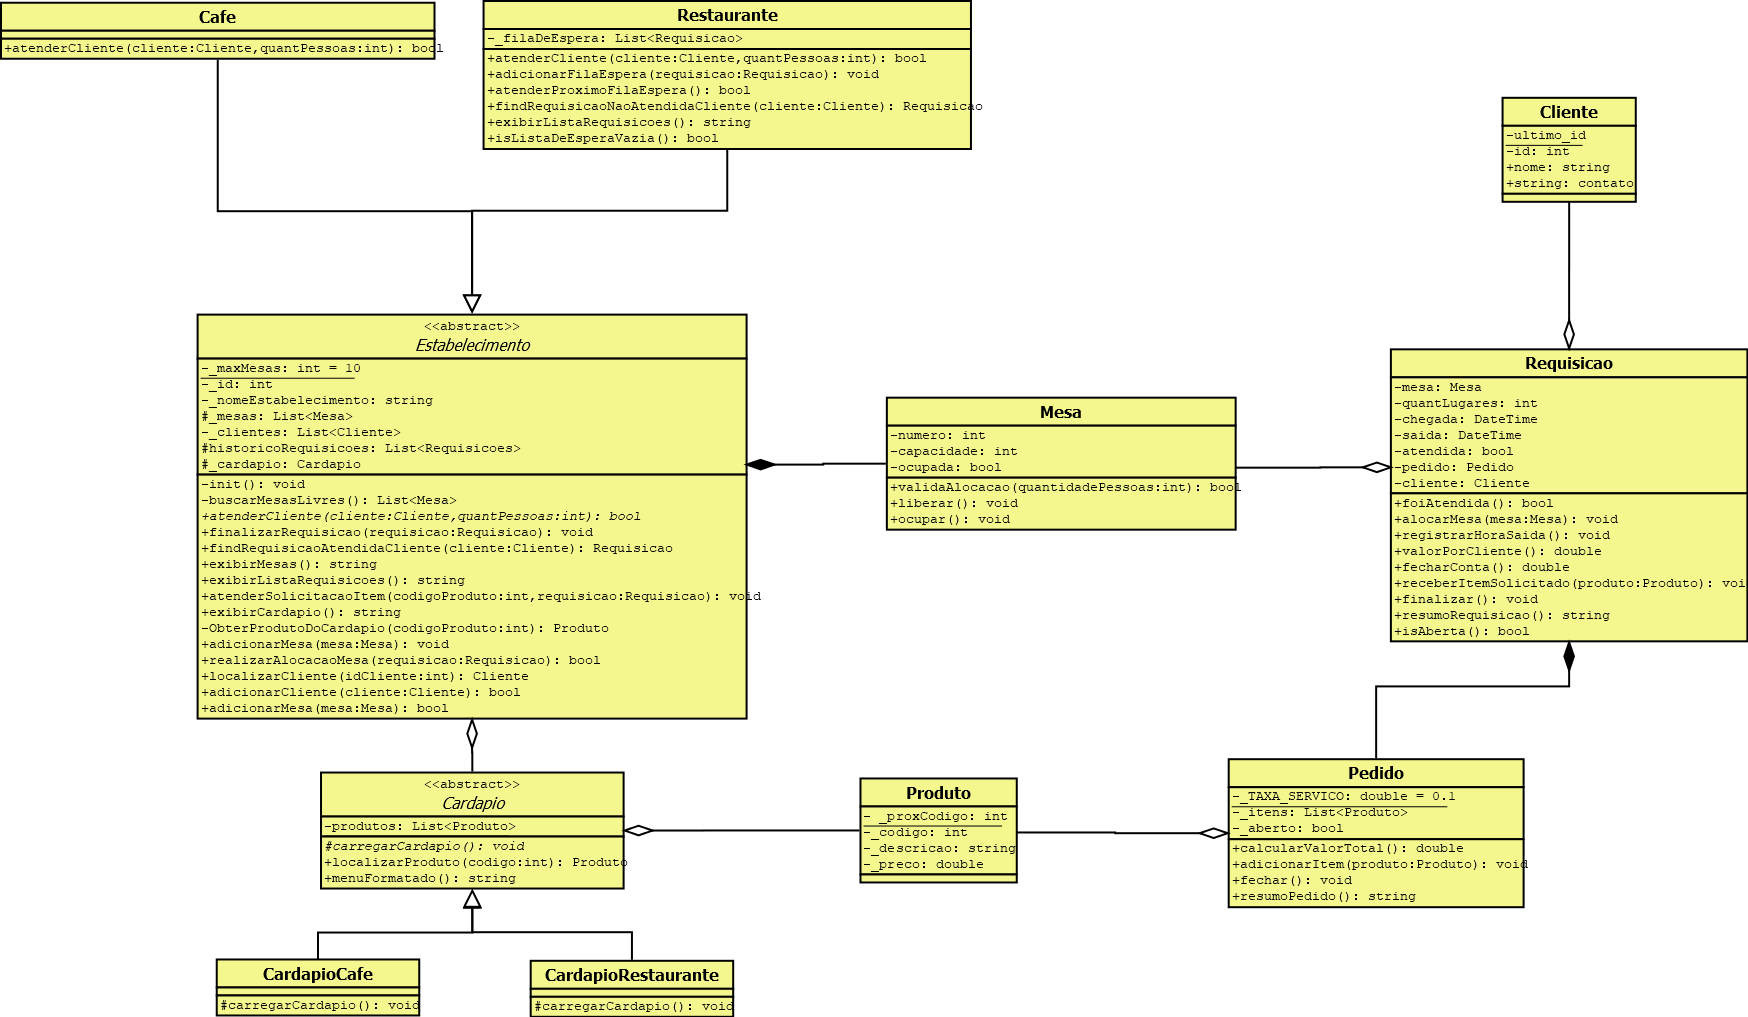
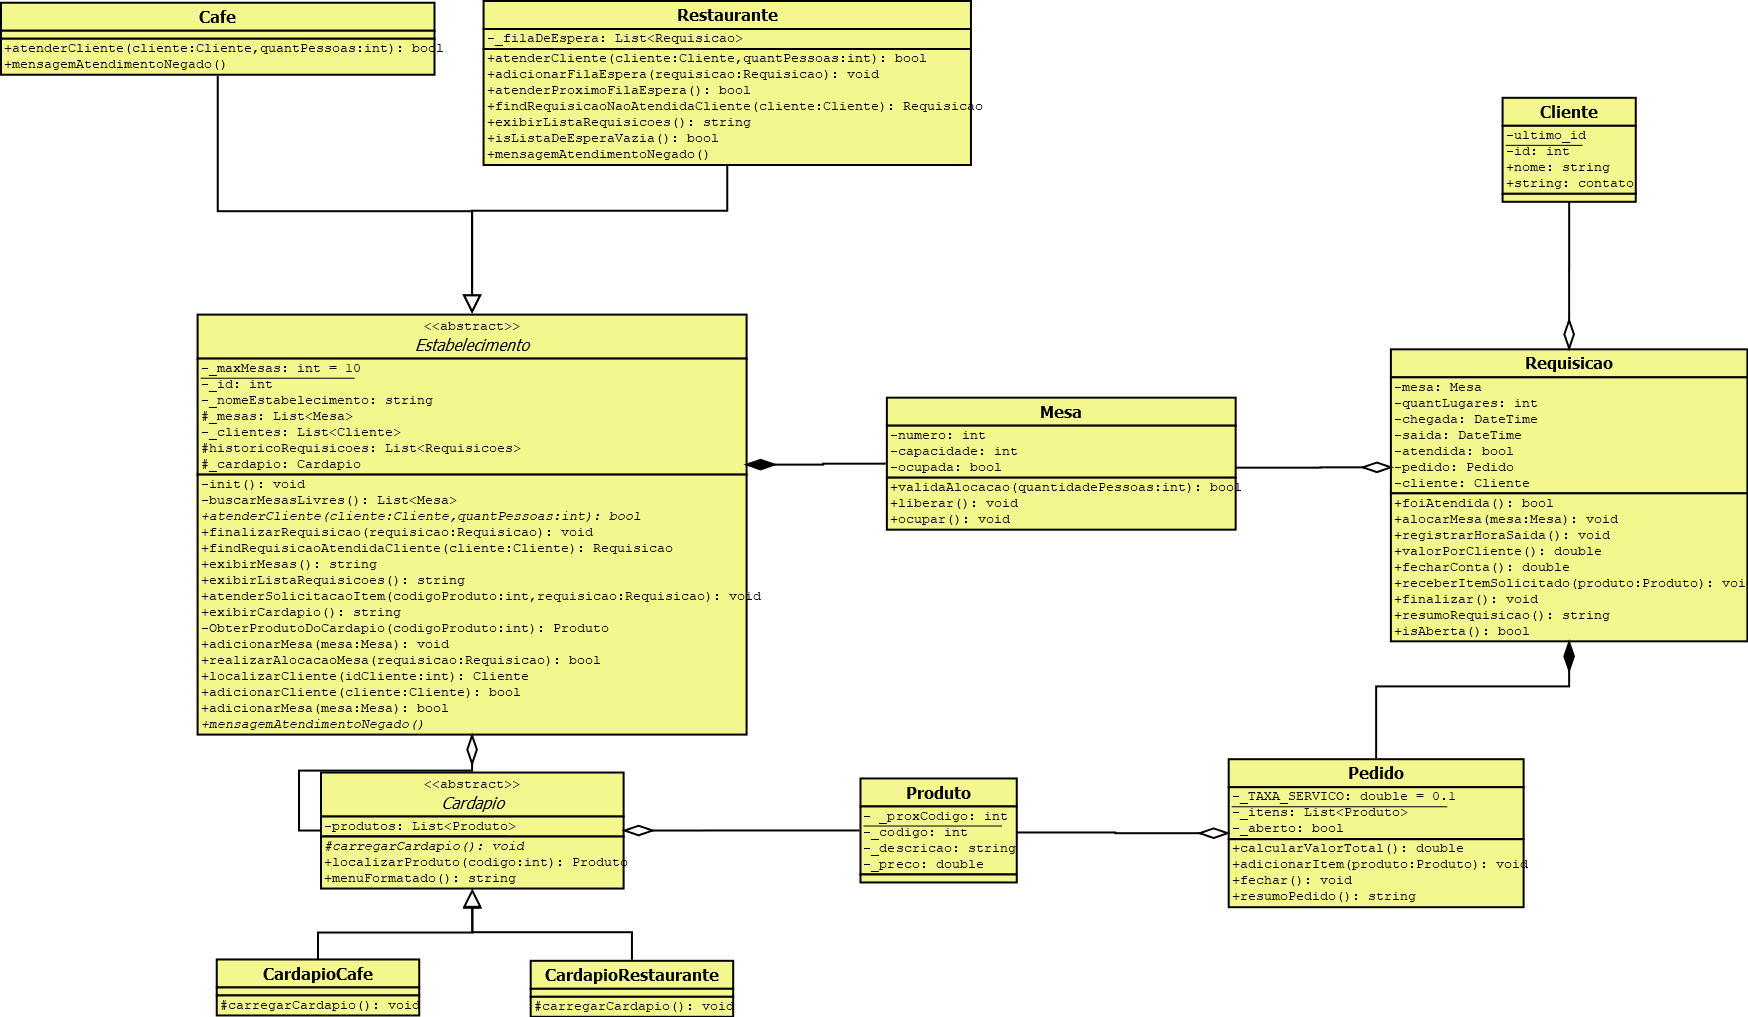
feat: improving messages

Changed region(s): [[0.278, 0.1219, 0.5561, 0.1829], [0.0, 0.0305, 0.2471, 0.0914], [0.0927, 0.7011, 0.4325, 0.762]]

diff --git a/codigo/RestauranteAtomo/Program.cs b/codigo/RestauranteAtomo/Program.cs
@@ -56,6 +56,7 @@ namespace RestauranteAtomo
                             break;
                     }
                 }catch(FormatException){
+                    Console.Clear();
                     Console.WriteLine("Opção inválida!");
                     codigo = -1;
                 }
@@ -66,12 +67,12 @@ namespace RestauranteAtomo
         /// Método com dados de teste
         /// </summary>
         private static void mockDados(){
-            for (int i = 1; i <= 10; i++) {
+            for (int i = 1; i <= 6; i++) {
                 Cliente cliente = new Cliente("Cliente" + i, "8888"+i);
                 estabelecimento.adicionarCliente(cliente);
                 if(i <= 4){
                     estabelecimento.atenderCliente(cliente, 4);
-                }else if(i > 4 && i <= 8){
+                }else if(i > 4 && i <= 5){
                     estabelecimento.atenderCliente(cliente, 6);
                 }else{
                     estabelecimento.atenderCliente(cliente, 8);
@@ -105,21 +106,22 @@ namespace RestauranteAtomo
         /// </summary>
         public static string menu()
         {
+            int index = 0;
             StringBuilder sb = new StringBuilder();
             sb.AppendLine(estabelecimento.ToString());
             sb.AppendLine("\nMenu");
-            sb.AppendLine("1) Novo cliente");
-            sb.AppendLine("2) Atender cliente");
-            sb.AppendLine("3) Adicionar mesa ao Restaurante");
-            sb.AppendLine("4) Atender Solicitação de item do cardápio");
-            sb.AppendLine("5) Fechar conta");
+            sb.AppendLine(++index+") Novo cliente");
+            sb.AppendLine(++index+") Atender cliente");
+            sb.AppendLine(++index+") Adicionar mesa ao Restaurante");
+            sb.AppendLine(++index + ") Atender Solicitação de item do cardápio");
+            sb.AppendLine(++index + ") Fechar conta");
             
             if(estabelecimento.GetHashCode() == RESTAURANTE){
-                sb.AppendLine("6) Atender próximo da fila de espera");
+                sb.AppendLine(++index + ") Atender próximo da fila de espera");
             }
 
-            sb.AppendLine("7) Exibir Lista de Requisições");
-            sb.AppendLine("8) Exibir Lista de Mesas");
+            sb.AppendLine(++index + ") Exibir Lista de Requisições");
+            sb.AppendLine(++index + ") Exibir Lista de Mesas");
             sb.AppendLine("0) Sair do programa");
             return sb.ToString();
         }
@@ -155,7 +157,7 @@ namespace RestauranteAtomo
         /// para a criacao e atendimento da requisicao.
         /// </summary>
         /// <param name="cliente">O cliente cuja requisicao sera criada e atendida</param>
-        public static void iniciarAtendimento(Cliente cliente, string mensagemAtendimentoNegado)
+        public static void iniciarAtendimento(Cliente cliente)
         {
             Console.WriteLine("Reserva para quantas pessoas ?");
             int quantidadePessoas;
@@ -180,7 +182,7 @@ namespace RestauranteAtomo
                     Console.WriteLine(requisicao.ToString());
                 }
             }else{
-                Console.WriteLine(mensagemAtendimentoNegado);
+                Console.WriteLine(estabelecimento.mensagemAtendimentoNegado());
             }
         }
 
@@ -320,7 +322,7 @@ namespace RestauranteAtomo
                 Console.WriteLine(requisicao.resumoPedido());
                 requisicao.fecharConta();
             }else{
-                 Console.WriteLine("O cliente não possui requisições passíveis de finalização");
+                 Console.WriteLine("O cliente não possui requisições passíveis de finalização!");
             }
         }
         
@@ -345,7 +347,6 @@ namespace RestauranteAtomo
         }
 
         public static void executarOperacoesRestaurante(){
-            Restaurante restaurante = (Restaurante) estabelecimento;
             int opcao;
             do
             {
@@ -367,13 +368,16 @@ namespace RestauranteAtomo
                         break;
                     case 2:
                         Cliente c = iniciarBuscaCliente();
-                        if (c != null && restaurante.findRequisicaoAtendidaCliente(c) == null && restaurante.findRequisicaoNaoAtendidaCliente(c) == null)
-                            iniciarAtendimento(c, "Requsição não atendida. O cliente entrou na fila de espera!");
+                        if (c != null)
+                        {
+                            if (estabelecimento.findRequisicaoAtendidaCliente(c) == null && ((Restaurante) estabelecimento).findRequisicaoNaoAtendidaCliente(c) == null)
+                                iniciarAtendimento(c);
+                            else
+                                Console.WriteLine("Cliente possui requisição pendente ! Para cadastrar nova requisição, a requisição existente deve ser finalizada primeiro! ");
+                        }
                         else
                         {
-                            string mensagem = "Cliente não encontrado ou cliente possui requisição pendente.\n";
-                            mensagem += "Para cadastrar nova requisição, a requisição existente deve ser finalizada primeiro!";
-                            Console.WriteLine(mensagem);
+                            Console.WriteLine("Cliente não encontrado");
                         }
                         espera();
                         break;
@@ -387,7 +391,7 @@ namespace RestauranteAtomo
                         {
                             atenderSolicitacaoItem(c2);
                         }
-                        else Console.WriteLine("Cliente não encontrado ou o cliente não possui requisição ativa. Favor tentar novamente! \n");
+                        else Console.WriteLine("Cliente não encontrado! \n");
                         espera();
                         break;
                     case 5:
@@ -396,7 +400,7 @@ namespace RestauranteAtomo
                         {
                             exibirConta(c3);
                         }
-                        else Console.WriteLine("Cliente não encontrado ou o cliente não possui requisição ativa. Favor tentar novamente! \n");
+                        else Console.WriteLine("Cliente não encontrado! \n");
                         espera();
                         break;
                     case 6:
@@ -446,13 +450,16 @@ namespace RestauranteAtomo
                         break;
                     case 2:
                         Cliente c = iniciarBuscaCliente();
-                        if (c != null && cafe.findRequisicaoAtendidaCliente(c) == null)
-                            iniciarAtendimento(c, "O estabelecimento está lotado. Peça para o cliente voltar em outro momento!");
+                        if (c != null)
+                        {
+                            if (estabelecimento.findRequisicaoAtendidaCliente(c) == null)
+                                iniciarAtendimento(c);
+                            else
+                                Console.WriteLine("Cliente possui requisição pendente ! Para cadastrar nova requisição, a requisição existente deve ser finalizada primeiro! ");
+                        }
                         else
                         {
-                            string mensagem = "Cliente não encontrado ou cliente possui requisição pendente.\n";
-                            mensagem += "Para cadastrar nova requisição, a requisição existente deve ser finalizada primeiro!";
-                            Console.WriteLine(mensagem);
+                            Console.WriteLine("Cliente não encontrado");
                         }
                         espera();
                         break;
@@ -466,7 +473,7 @@ namespace RestauranteAtomo
                         {
                             atenderSolicitacaoItem(c2);
                         }
-                        else Console.WriteLine("Cliente não encontrado ou o cliente não possui requisição ativa. Favor tentar novamente! \n");
+                        else Console.WriteLine("Cliente não encontrado!\n");
                         espera();
                         break;
                     case 5:
@@ -475,14 +482,14 @@ namespace RestauranteAtomo
                         {
                             exibirConta(c3);
                         }
-                        else Console.WriteLine("Cliente não encontrado ou o cliente não possui requisição ativa. Favor tentar novamente! \n");
+                        else Console.WriteLine("Cliente não encontrado!\n");
                         espera();
                         break;
-                    case 7:
+                    case 6:
                         Console.WriteLine(estabelecimento.exibirListaRequisicoes());
                         espera();
                         break;
-                    case 8:
+                    case 7:
                         Console.WriteLine(estabelecimento.exibirMesas());
                         espera();
                         break;

diff --git a/codigo/RestauranteAtomo/model/Restaurante.cs b/codigo/RestauranteAtomo/model/Restaurante.cs
@@ -30,9 +30,8 @@ namespace RestauranteAtomo.model
                 new Mesa(5, 6, false),
                 new Mesa(6, 6, false),
                 new Mesa(7, 6, false),
-                new Mesa(8, 6, false),
-                new Mesa(9, 8, false),
-                new Mesa(10, 8, false)
+                new Mesa(8, 8, false),
+                new Mesa(9, 8, false)
             };
         }
 
@@ -143,6 +142,10 @@ namespace RestauranteAtomo.model
             return resposta;
         }
 
+        public override string mensagemAtendimentoNegado()
+        {
+            return "Requisição não atendida. O cliente entrou na fila de espera";
+        }
 
         #endregion /* Fim Metodo Publicos */;
     }

diff --git a/codigo/RestauranteAtomo/model/Cafe.cs b/codigo/RestauranteAtomo/model/Cafe.cs
@@ -20,9 +20,8 @@ namespace RestauranteAtomo.model
             new Mesa(5, 6,false),
             new Mesa(6, 6,false),
             new Mesa(7, 6,false),
-            new Mesa(8, 6,false),
-            new Mesa(9, 8,false),
-            new Mesa(10, 8,false)
+            new Mesa(8, 8,false),
+            new Mesa(9, 8,false)
         };
             _cardapio = new CardapioCafe();
         }
@@ -38,6 +37,11 @@ namespace RestauranteAtomo.model
             }
 
             return false;
+        }
+
+        public override string mensagemAtendimentoNegado()
+        {
+            return "O estabelecimento está lotado. Peça para o cliente voltar em outro momento!";
         }
     }
 }

diff --git a/codigo/RestauranteAtomo/model/Estabelecimento.cs b/codigo/RestauranteAtomo/model/Estabelecimento.cs
@@ -88,7 +88,7 @@ namespace RestauranteAtomo.model
             StringBuilder descMesas = new StringBuilder();
             foreach(Mesa mesa in _mesas)
             {
-                descMesas.AppendLine("\nMesa " + mesa.Numero + ": capacidade para " + mesa.Capacidade + " pessoas.");
+                descMesas.AppendLine(mesa.ToString() + "\n");
             }
             return descMesas.ToString();
         }
@@ -192,6 +192,8 @@ namespace RestauranteAtomo.model
             }
             return false;
         }
+
+        public abstract string mensagemAtendimentoNegado();
 
         public override string ToString()
         {

diff --git a/codigo/RestauranteAtomo/model/Mesa.cs b/codigo/RestauranteAtomo/model/Mesa.cs
@@ -74,7 +74,8 @@ namespace RestauranteAtomo.model
         public override string ToString()
         {
             return $"Num.Mesa: {numero} \n" +
-                   $"Capacidade: {capacidade}";
+                   $"Capacidade: {capacidade} s\n" 
+                   + "Status: " + (ocupada ? "Ocupada" : "Livre");
         }
 
 
